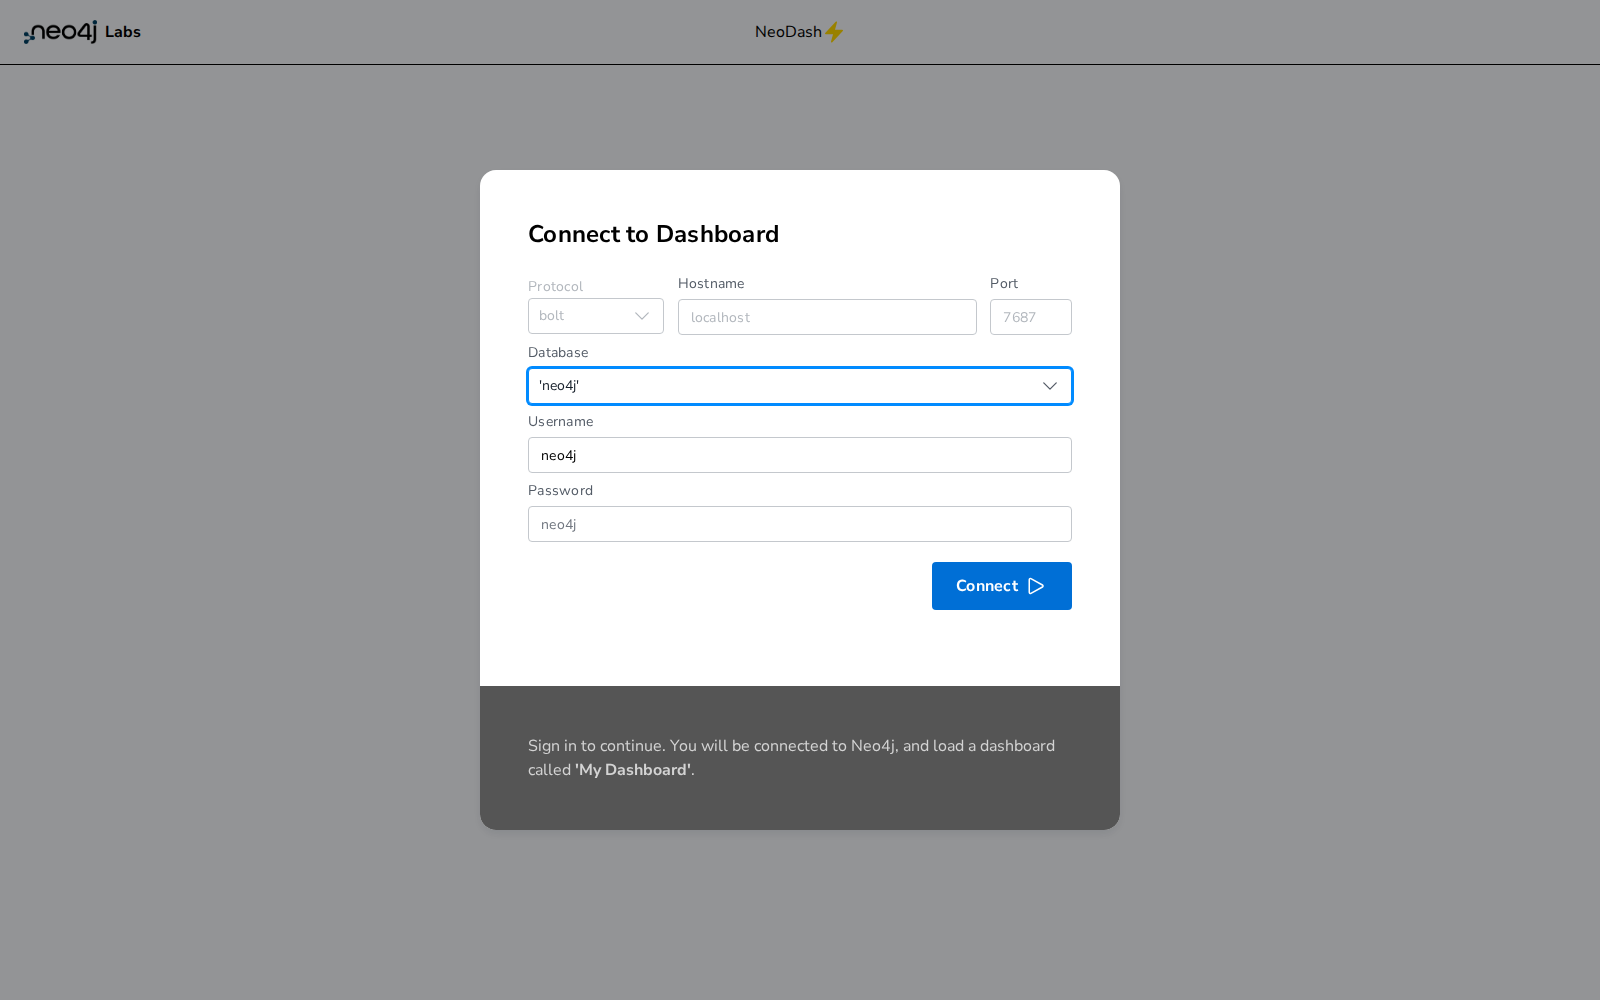
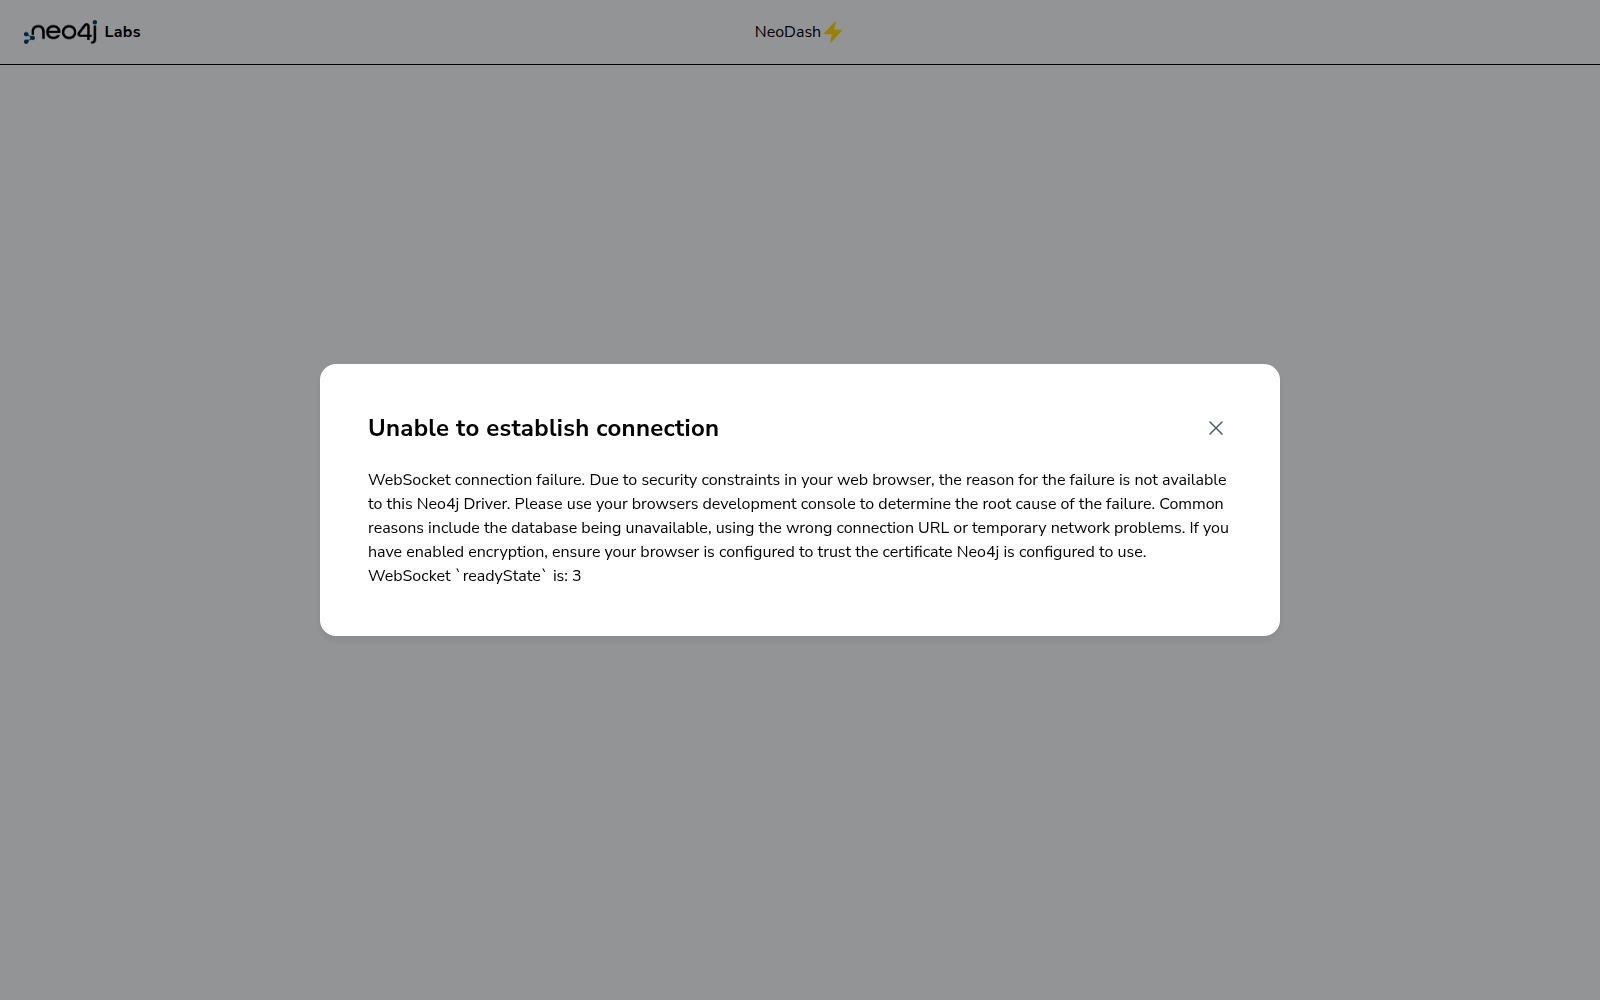
fix: gallery single-column CSS, remove Neodash, fix App 3 screenshot
CSS: Switch to single-column layout (all floats removed) to prevent
header/section text overlap. Width 960px centered.

Gallery: Remove Neodash (requires WebSocket which Bolt server doesn't
support from browser). Renumber to 3 apps. App 3 (GraphKer) now shows
query results page with actual CVE data instead of empty graph canvas.

Changed region(s): [[0.1875, 0.155, 0.8125, 0.837], [0.4688, 0.031, 0.5, 0.062]]

diff --git a/docs/assets/css/style.scss b/docs/assets/css/style.scss
@@ -3,23 +3,36 @@
 
 @import "jekyll-theme-minimal";
 
+/* Single-column layout — removes the sidebar so screenshots display full-width */
 .wrapper {
-  width: 1200px;
-}
-
-section {
-  width: 880px;
-  float: none;
+  width: 960px;
+  margin: 0 auto;
 }
 
 header {
-  width: 280px;
+  float: none;
+  width: auto;
+  padding-bottom: 20px;
+  border-bottom: 1px solid #eee;
+  margin-bottom: 20px;
+  position: static;
+}
+
+section {
+  float: none;
+  width: 100%;
+}
+
+footer {
+  float: none;
+  width: auto;
+  position: static;
 }
 
 img {
   max-width: 100%;
   border-radius: 8px;
-  box-shadow: 0 4px 12px rgba(0, 0, 0, 0.3);
+  box-shadow: 0 4px 12px rgba(0, 0, 0, 0.15);
   margin: 16px 0;
 }
 
@@ -28,12 +41,13 @@ code, pre {
   overflow-x: auto;
 }
 
-@media print, screen and (max-width: 1280px) {
+table {
+  width: 100%;
+}
+
+@media print, screen and (max-width: 1024px) {
   .wrapper {
     width: auto;
     margin: 0 20px;
-  }
-  section {
-    width: 100%;
   }
 }

diff --git a/docs/neo4j-compat-gallery.md b/docs/neo4j-compat-gallery.md
@@ -38,7 +38,6 @@ python3 neo4j-compat-gallery/app3-graphker/cve_loader.py --sample --no-clear
 
 | App | URL | What You'll See |
 |-----|-----|-----------------|
-| Neodash | [localhost:5005](http://localhost:5005) | Dashboard builder — connect with bolt://localhost:7687 |
 | neovis.js | [localhost:8080](http://localhost:8080) | Threat intelligence graph visualization |
 | GraphKer | [localhost:5001](http://localhost:5001) | CVE knowledge graph explorer |
 | Network Security | [localhost:5002](http://localhost:5002) | Enterprise network attack surface analyzer |
@@ -63,30 +62,7 @@ Each app was validated end-to-end from a **fresh `git clone`** of this repositor
 
 ---
 
-## App 1: Neodash — Security Dashboard Builder
-
-**Port 5005** · [Neo4j Labs](https://github.com/neo4j-labs/neodash) · Docker container
-
-Neodash is an open-source dashboard builder maintained by Neo4j Labs. It runs as a Docker
-container and connects to any Bolt-compatible server. Here it connects to SedanDelivery
-with the same `bolt://localhost:7687` connection string you would use for Neo4j.
-
-The gallery includes a pre-built `dashboard.json` with 3 pages of MITRE ATT&CK analysis:
-threat group inventory, techniques-per-tactic breakdown, and mitigation coverage graphs.
-
-```bash
-# Run standalone (Docker required)
-docker run -d --network=host -p 5005:5005 \
-  -e standalone=true -e standaloneProtocol=bolt \
-  -e standaloneHost=localhost -e standalonePort=7687 \
-  neo4jlabs/neodash:latest
-```
-
-![Neodash Dashboard](assets/images/gallery/01-neodash-dashboard.png)
-
----
-
-## App 2: neovis.js — Threat Intelligence Visualization
+## App 1: neovis.js — Threat Intelligence Visualization
 
 **Port 8080** · [neo4j-contrib/neovis.js](https://github.com/neo4j-contrib/neovis.js) · Static HTML
 
@@ -107,7 +83,7 @@ npx serve -l 8080
 
 ---
 
-## App 3: GraphKer — CVE Knowledge Graph Explorer
+## App 2: GraphKer — CVE Knowledge Graph Explorer
 
 **Port 5001** · Python Flask + neo4j driver v6.1.0
 
@@ -126,13 +102,17 @@ python3 cve_loader.py --sample    # Load 15 CVEs offline
 python3 app.py                    # Start on port 5001
 ```
 
-![GraphKer CVE Explorer](assets/images/gallery/03-graphker-dashboard.png)
+**Cypher Query Interface** — Top 10 CVEs by CVSS score, queried live from SedanDelivery:
+
+![GraphKer Query Results](assets/images/gallery/03-graphker-dashboard.png)
+
+**CVE Detail Page** — Log4Shell (CVE-2021-44228) with weaknesses and affected products:
 
 ![GraphKer CVE Detail — Log4Shell](assets/images/gallery/03b-graphker-cve-detail.png)
 
 ---
 
-## App 4: Network Security Graph Analyzer
+## App 3: Network Security Graph Analyzer
 
 **Port 5002** · Python Flask + neo4j driver v6.1.0
 
